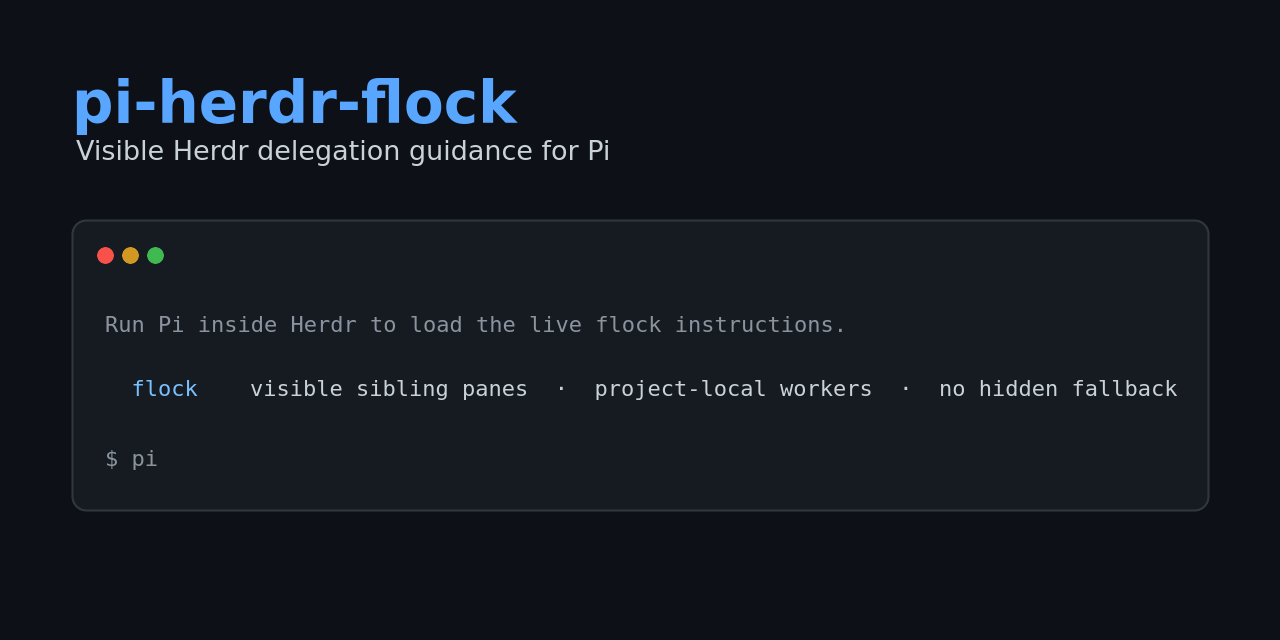
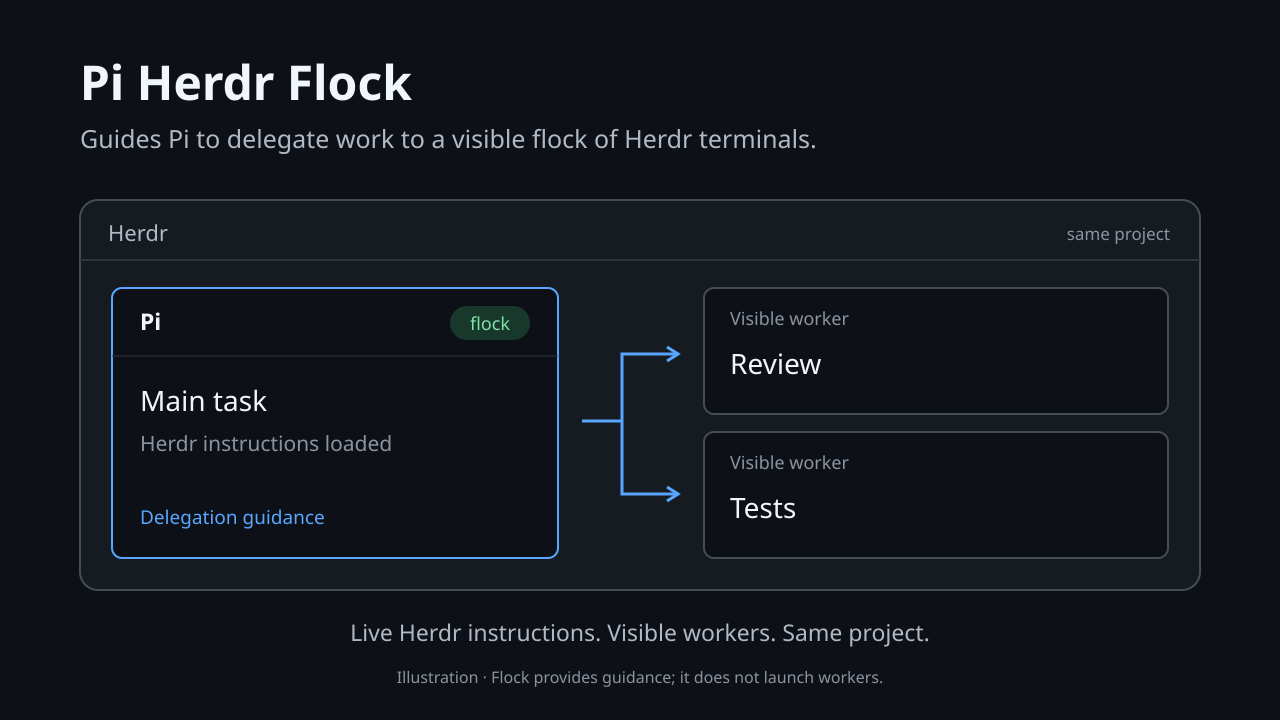
Add delegation diagrams and clarify session hooks

diff --git a/README.md b/README.md
@@ -11,7 +11,7 @@ Guides Pi to delegate work to a visible flock of Herdr terminals.
 
 ![pi-herdr-flock preview](media/github-preview.png)
 
-Flock loads Herdr's live instructions into Pi and encourages delegation through visible panes in your project. It adds no tools and launches no agents. Outside Herdr, it stays inactive.
+Flock runs `herdr --skill` through Pi's session-start hook and adds the instructions to the system prompt before each agent run. It encourages delegation through visible panes in your project. It adds no tools and launches no agents. Outside Herdr, it stays inactive.
 
 ## Install
 
